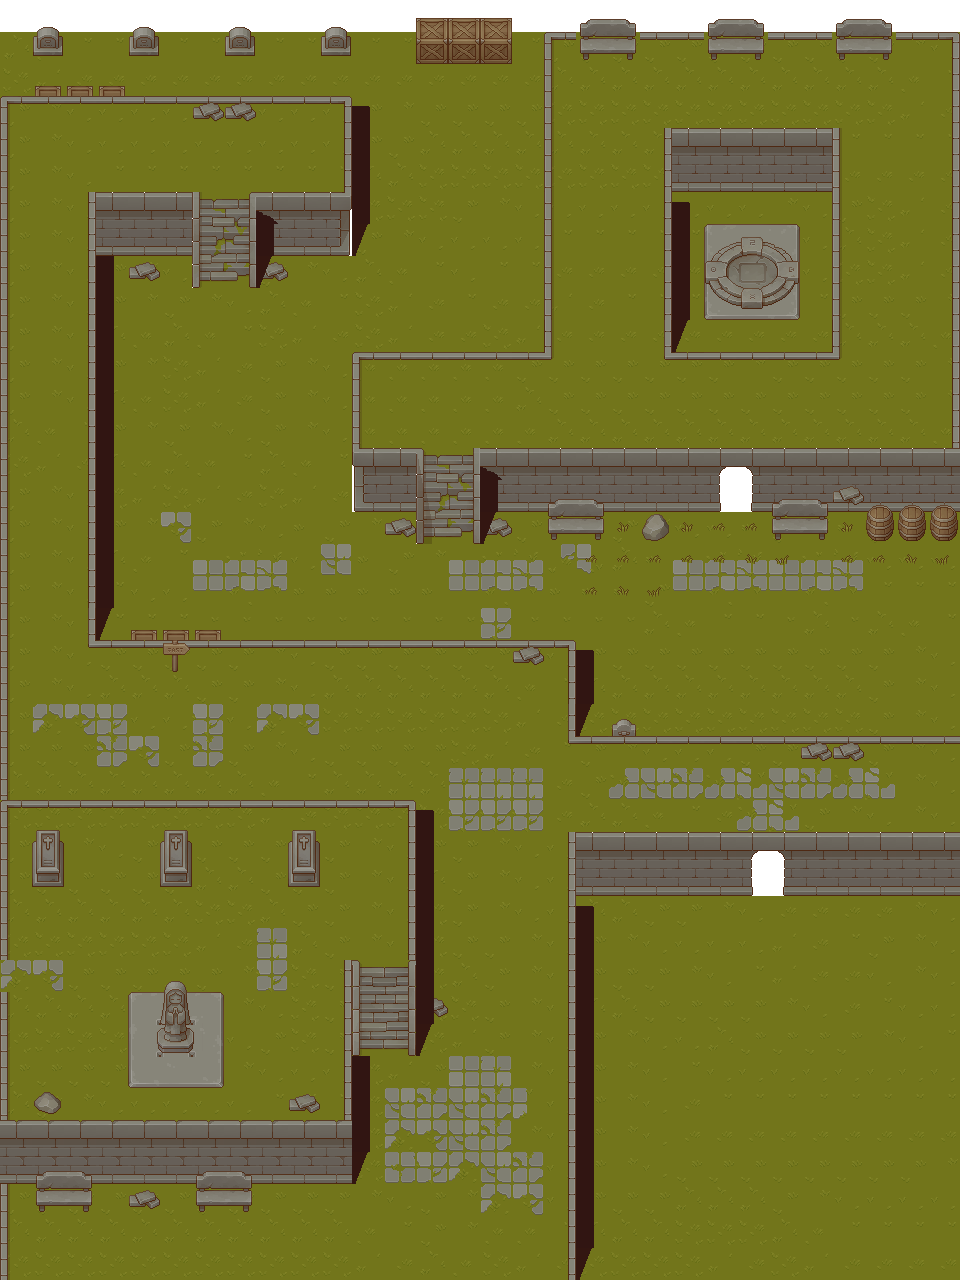
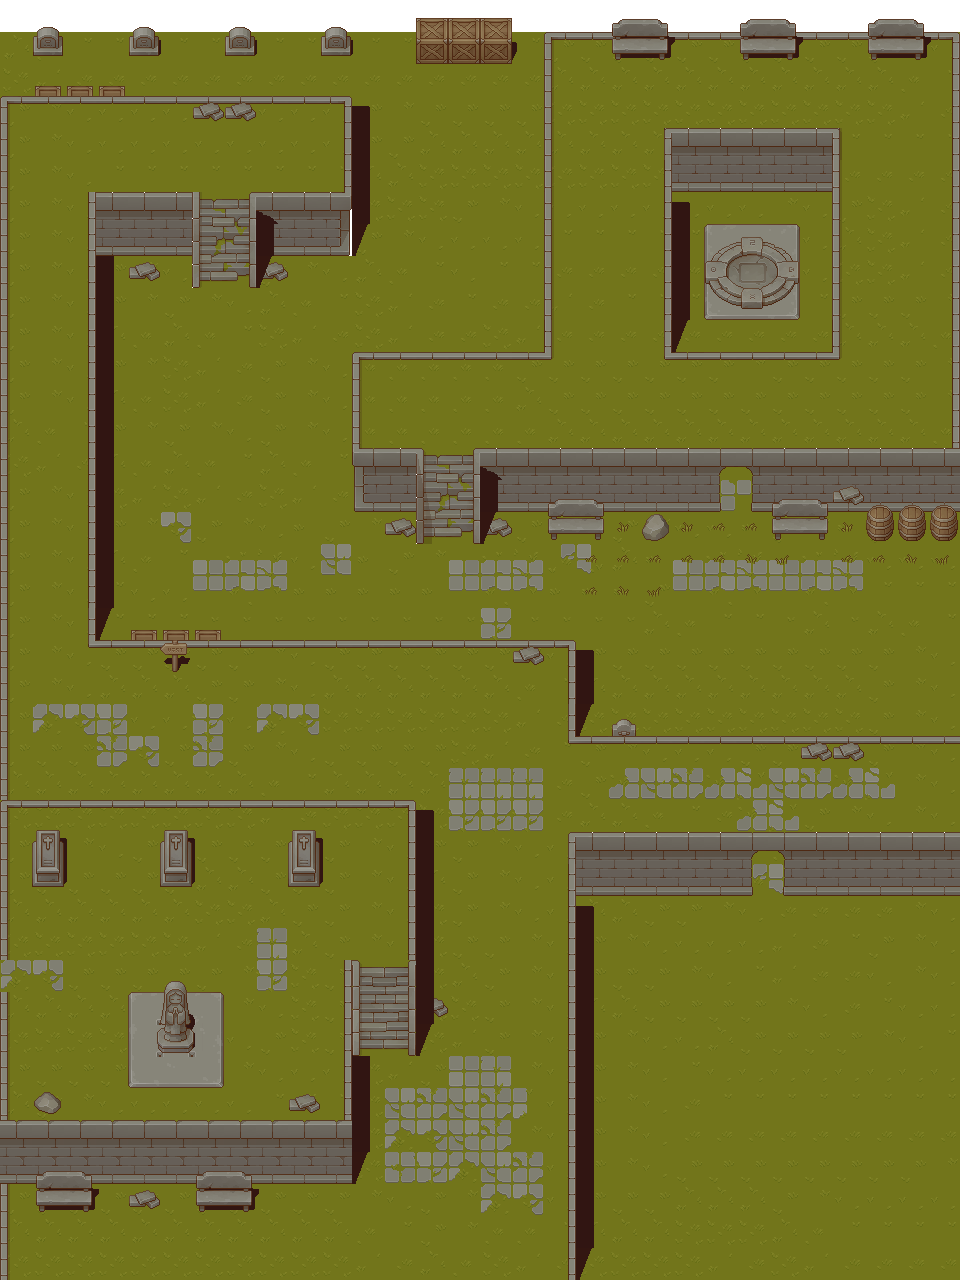
add change map system

diff --git a/Project1/EntityManager.cpp b/Project1/EntityManager.cpp
@@ -55,22 +55,31 @@ void EntityManager::setCollision() {
 }
 
 void EntityManager::HandleEvents() {
+
+	if (e->type == SDL_KEYDOWN && e->key.keysym.sym == SDLK_f) {
+		Object::collider = File::readCollision(water_town);
+		interface->reload();
+		for (auto& player : players) {
+			player->reload();
+		}
+	}
+
 	for (auto& player : players) {
 		player->handleUserEvents(e);
 		player->handleBarDisplay();
 	}
 
-	for (auto& computer : computers) {
-		computer->chaseTarget(players);
-	}
+	//for (auto& computer : computers) {
+	//	computer->chaseTarget(players);
+	//}
 
 	for (auto& player : players) {
 		player->listen(e);
 	}
 
-	for (auto& computer : computers) {
-		computer->listen(e);
-	}
+	//for (auto& computer : computers) {
+	//	computer->listen(e);
+	//}
 }
 
 void EntityManager::render() {
@@ -109,4 +118,9 @@ void EntityManager::sortLayer() {
 		}
 		layers[j + 1] = key;
 	}
+}
+
+void EntityManager::reload() {
+	Object::collider = File::readCollision(water_town);
+
 }

diff --git a/Project1/player.cpp b/Project1/player.cpp
@@ -184,6 +184,16 @@ void Player::setLocation() {
 	position.y = interface->camera.y + desRect.y;
 }
 
+void Player::setLocation(int x, int y) {
+	map_x = x / TILE_WIDTH;
+	map_y = y / TILE_HEIGHT;
+	//setSize(64, 64);
+	interface->cameraInitLocation(map_x, map_y);
+	interface->cameraInitObjectLocation(map_x, map_y, desRect);
+	position.x = interface->camera.x + desRect.x;
+	position.y = interface->camera.y + desRect.y;
+}
+
 void Player::setCollision() {
 	//collider = File::readCollision(path);
 	collision = new Collision(Object::collider, &desRect, &interface->camera, &position);
@@ -222,4 +232,13 @@ void Player::init() {
 void Player::setBarProperties() {
 	interface->mana_display->setProperties(stat.mana);
 	interface->health_display->setProperties(stat.health);
+}
+
+void Player::reload() {
+	collision->reload(Object::collider);
+	setLocation(0, 6 * 32);
+}
+
+void Player::changeMap() {
+
 }

diff --git a/Project1/interface.cpp b/Project1/interface.cpp
@@ -67,6 +67,12 @@ void Interface::loadMap() {
 	//TextureManagement::Draw(renderer, texture, srcRect, desRect);
 }
 
+void Interface::reload() {
+	SDL_DestroyTexture(texture);
+	texture = TextureManagement::LoadTexture(TEST, renderer);
+	SDL_QueryTexture(texture, NULL, NULL, &map_w, &map_h);
+}
+
 void Interface::loadTexture() {
 	for (auto it = tileset.begin(); it != tileset.end(); it++) {
 		std::cout << File::augmentPath(it->source) << std::endl;

diff --git a/Project1/player.h b/Project1/player.h
@@ -31,10 +31,13 @@ public:
 	bool isInvisible = false;
 	void setBarProperties();
 	void setSFX();
+	void reload();
 	virtual void init() override;
 	virtual void move() override;
 	virtual void handleUserEvents(SDL_Event *e);
 	virtual void setLocation() override;
+	void setLocation(int x, int y);
 	virtual void setCollision() override;
 	virtual void setProtocolCode() override;
+	void changeMap();
 };

diff --git a/Project1/collision.h b/Project1/collision.h
@@ -11,6 +11,7 @@ public:
 	bool isCollidingVertical(int velocity);
 	bool isColliding(int velo_x, int velo_y);
 	static bool rectColliding(SDL_Rect object1, SDL_Rect object2);
+	void reload(std::vector<std::vector<int>> collider);
 	Collision(std::vector<std::vector<int>> collider, SDL_Rect* object, SDL_Rect* camera, SDL_Point* position);
 	~Collision();
 

diff --git a/Project1/collision.cpp b/Project1/collision.cpp
@@ -143,3 +143,9 @@ bool Collision::rectColliding(SDL_Rect object1, SDL_Rect object2) {
 
 	return false;
 }
+
+void Collision::reload(std::vector<std::vector<int>> collider) {
+	this->map_width = collider[0].size();
+	this->map_height = collider.size();
+	this->collider = collider;
+}

diff --git a/Project1/interface.h b/Project1/interface.h
@@ -40,4 +40,5 @@ public:
 	bool isCenterVertical(SDL_Rect& object);
 	bool isCenterHorizontal(SDL_Rect& object);
 	void updateObjectScreenPosition(SDL_Point& position, SDL_Rect& object);
+	void reload();
 };

diff --git a/Project1/EntityManager.h b/Project1/EntityManager.h
@@ -34,4 +34,6 @@ public:
 	bool compare(Entity* a, Entity* b);
 	void sortLayer();
 	bool isInScreen(SDL_Rect object1, SDL_Rect object2);
+	void reload();
 };
+
